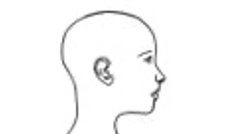
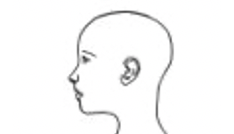
Left homunc done

Changed region(s): [[0.2393, 0.0597, 0.7479, 1.0]]

diff --git a/src/screens/LeftHomuncScreen.js b/src/screens/LeftHomuncScreen.js
@@ -11,35 +11,19 @@ const LeftHomuncScreen = ({navigation}) => {
                 <TouchableOpacity onPress={() => navigation.navigate("BackHomunc")}>
                     <Image style={styles.rotate} source={require('../../assets/Side/BackView.png')} />
                 </TouchableOpacity>
-                <TouchableOpacity onPress={() => clickHandler("Head or Neck")}>
-                    <Image style={styles.head} source={require('../../assets/Front/Head.png')} />
+                <TouchableOpacity onPress={() => clickHandler("Left Head or Neck")}>
+                    <Image style={styles.head} source={require('../../assets/Side/LeftHead.png')} />
                 </TouchableOpacity>
                 <TouchableOpacity onPress={() => navigation.navigate("FrontHomunc")}>
                     <Image style={styles.rotate} source={require('../../assets/Side/FrontView.png')} />
                 </TouchableOpacity>
             </View>
-            <View style={styles.flexbox}>
-                <TouchableOpacity onPress={() => clickHandler("Right Upper Arm")}>
-                    <Image style={styles.arm} source={require('../../assets/Front/RightUA.png')} />
-                </TouchableOpacity>
-                <TouchableOpacity onPress={() => clickHandler("Torso")}>
-                    <Image style={styles.chest} source={require('../../assets/Front/ChestTop.png')} />
-                </TouchableOpacity>
-                <TouchableOpacity onPress={() => clickHandler("Left Upper Arm")}>
-                    <Image style={styles.arm} source={require('../../assets/Front/LeftUA.png')} />
-                </TouchableOpacity>
-            </View>
-            <View style={styles.flexbox}>
-                <TouchableOpacity onPress={() => clickHandler("Right Lower Arm")}>
-                    <Image style={styles.lowerArm} source={require('../../assets/Front/RightLA.png')} />
-                </TouchableOpacity>
-                <TouchableOpacity onPress={() => clickHandler("Torso")}>
-                    <Image style={styles.body} source={require('../../assets/Front/FrontMiddle.png')} />
-                </TouchableOpacity>
-                <TouchableOpacity onPress={() => clickHandler("Left Lower Arm")}>
-                    <Image style={styles.lowerArm} source={require('../../assets/Front/LeftLA.png')} />
-                </TouchableOpacity>
-            </View>
+            <TouchableOpacity onPress={() => clickHandler("Left Torso")}>
+                <Image style={styles.torso} source={require('../../assets/Side/LeftTorso.png')} />
+            </TouchableOpacity>
+            <TouchableOpacity onPress={() => clickHandler("Left Legs")}>
+                <Image style={styles.legs} source={require('../../assets/Side/LeftLegs.png')} />
+            </TouchableOpacity>
         </ScrollView>
     );
 };
@@ -54,54 +38,25 @@ const styles = StyleSheet.create({
         flexDirection: 'row',
         justifyContent: 'center',
     },
-    // head: {
-    //     width: 115,
-    //     height: 95,
-    //     resizeMode: 'contain',
-    // },
-    // arm: {
-    //     width: 75,
-    //     height: 100,
-    //     resizeMode: 'contain',
-    // },
-    // chest: {
-    //     width: 110,
-    //     height: 100,
-    //     resizeMode: 'contain',
-    // },
-    // lowerArm: {
-    //     width: 76,
-    //     height: 58,
-    //     resizeMode: 'contain',
-    // },
-    // body: {
-    //     width: 109,
-    //     height: 57,
-    //     resizeMode: 'contain',
-    // },
-    // hand: {
-    //     width: 69,
-    //     height: 55,
-    //     resizeMode: 'contain',
-    // },
-    // leg: {
-    //     width: 137,
-    //     height: 87,
-    //     resizeMode: 'contain',
-    // },
-    // lowerLeg: {
-    //     width: 133,
-    //     height: 90,
-    //     resizeMode: 'contain',
-    // },
-    // foot: {
-    //     width: 138,
-    //     height: 50,
-    //     resizeMode: 'contain',
-    // },
+    head: {
+        width: 140,
+        height: 80,
+        resizeMode: 'contain',
+    },
+    torso: {
+        width: 360,
+        height: 175,
+        resizeMode: 'contain',
+    },
+    legs: {
+        width: 370,
+        height: 190,
+        resizeMode: 'contain',
+        alignSelf: 'center',
+    },
     rotate: {
-        width: 160,
-        height: 95,
+        width: 150,
+        height: 80,
         resizeMode: 'contain',
     },
 });
